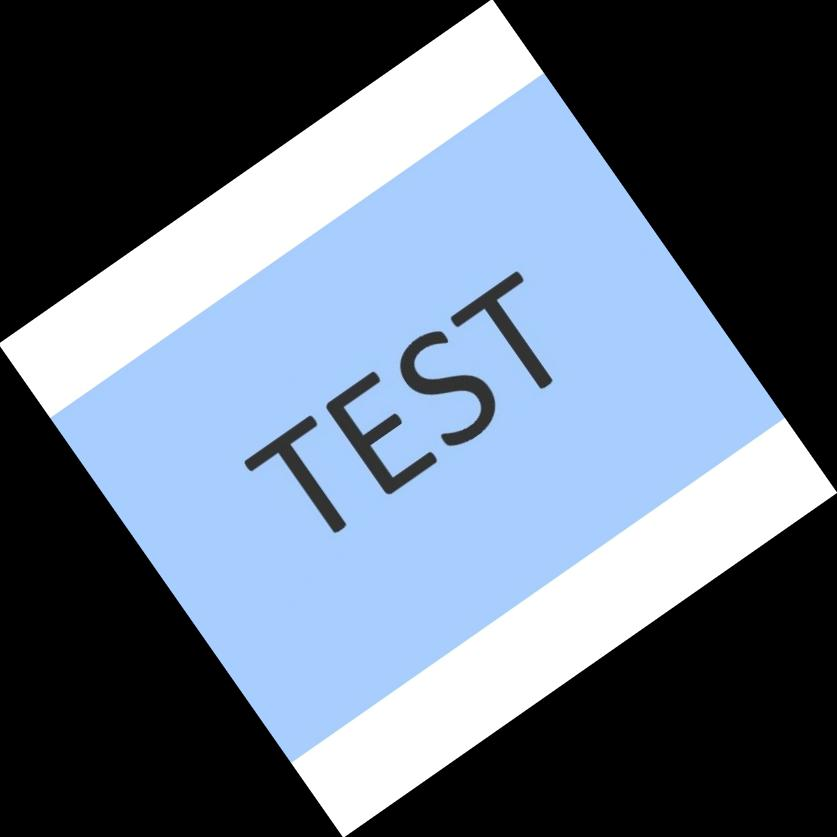
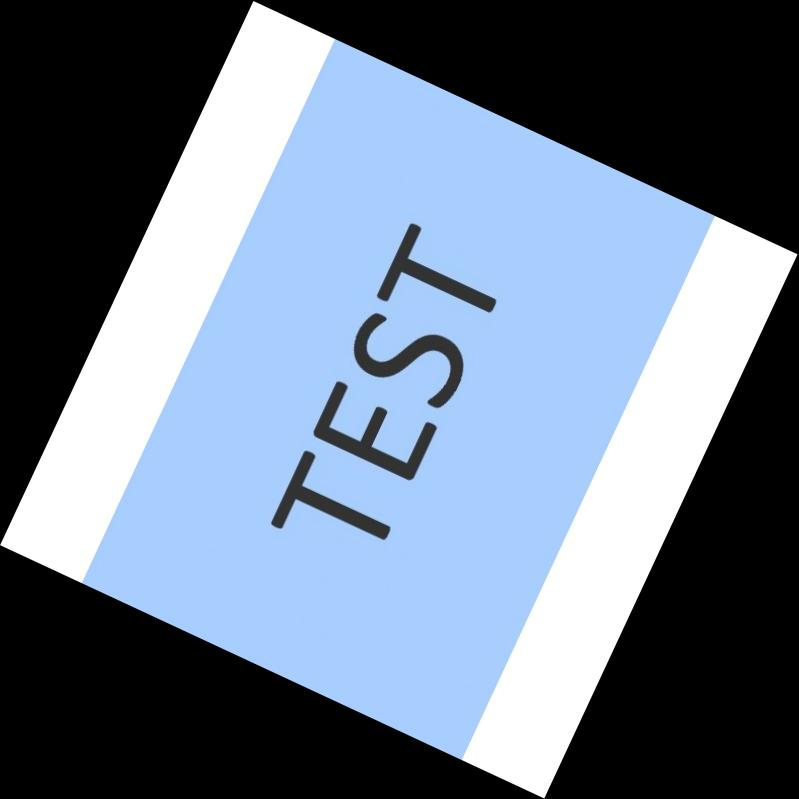
added image format recognition functionality, fix show method

diff --git a/src/Image.php b/src/Image.php
@@ -4,19 +4,28 @@ namespace Zraiev\ImageLibHandler;
 
 use Exception;
 
+/**
+ * @property mixed type
+ */
 class Image extends AbstractImage
 {
     protected $file;
 
-    const TYPE = 'jpg';
+    protected $type;
+
+    const TYPE_JPG = 'jpg';
+    const TYPE_JPEG = 'jpeg';
+    const TYPE_PNG = 'png';
 
     /**
      * Image constructor.
      * @param $file resource
+     * @param $type string
      */
-    public function __construct($file)
+    public function __construct($file, $type = null)
     {
         $this->file = $file;
+        $this->type = $type ?? $this->checkFormat();
     }
 
     /**
@@ -24,7 +33,8 @@ class Image extends AbstractImage
      */
     public function checkFormat()
     {
-        $format = explode('.', $this->file);
+        $mime = image_type_to_mime_type(exif_imagetype($this->file));
+        $format = explode('/', $mime);
 
         return end($format);
     }
@@ -35,26 +45,31 @@ class Image extends AbstractImage
      */
     public function open()
     {
-        if ($this->checkFormat() === self::TYPE) {
-            $file = imagecreatefromjpeg($this->file);
-            imagedestroy($this->file);
-            return $file;
-        } else {
-            throw new Exception('Wrong format!');
-        }
+        $file = $this->type !== self::TYPE_JPG && $this->type !== self::TYPE_JPEG ? imagecreatefrompng($this->file) : imagecreatefromjpeg($this->file);
+
+        imagedestroy($this->file);
+
+        return $file;
     }
 
+    /**
+     * @return void
+     */
     public function save()
     {
-        imagejpeg($this->file, $_SERVER["DOCUMENT_ROOT"]."/output.jpg");
+        if ($this->type !== self::TYPE_JPG && $this->type !== self::TYPE_JPEG) {
+            imagepng($this->file, $_SERVER["DOCUMENT_ROOT"]."/output.png");
+        } else {
+            imagejpeg($this->file, $_SERVER["DOCUMENT_ROOT"]."/output.jpg");
+        }
+
         imagedestroy($this->file);
     }
 
     public function show()
     {
-        $image = file_get_contents('output.jpg');
-        header('Content-type: image/jpeg');
-
-        return $image;
+        $imageData = base64_encode(file_get_contents('output.'.$this->type));
+        $src = 'data: '.mime_content_type('output.'.$this->type).';base64,'.$imageData;
+        echo '<img src="' . $src . '">';
     }
 }

diff --git a/index.php b/index.php
@@ -7,9 +7,9 @@ use Zraiev\ImageLibHandler\Image;
 
 require_once __DIR__ . '/vendor/autoload.php';
 
-echo('Image handling');
+$image = new Image(__DIR__. '/exampes/test.jpg');
+//$image = new Image(__DIR__. '/exampes/test.png');
 
-$image = new Image(__DIR__."/exampes/test.jpg");
 $imageFile = $image->open();
 
 //$imageCrop = new Crop($imageFile);
@@ -19,8 +19,9 @@ $imageFile = $image->open();
 //$newImage = $imageResize->resize(300, 200);
 
 $imageRotate = new Rotate($imageFile);
-$newImage = $imageRotate->rotate(35, 1);
+$newImage = $imageRotate->rotate(65, 0);
 
-$image = new Image($newImage);
+//save on jpg or png format
+$image = new Image($newImage, Image::TYPE_PNG);
 $image->save();
 $image->show();

diff --git a/README.md b/README.md
@@ -1,1 +1,3 @@
 A PHP library for easy image handling
+
+Resize, crop, rotate image and save to JPG or PNG formats.
